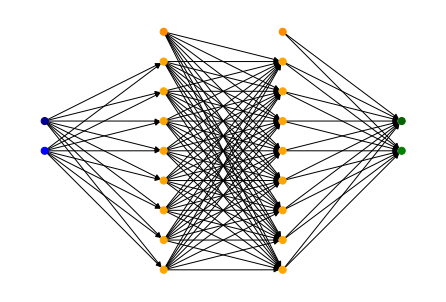
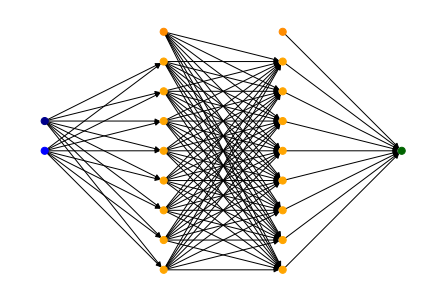
Fixed the draw_network bug

diff --git a/mlspear/NeuralNetwork.py b/mlspear/NeuralNetwork.py
@@ -159,7 +159,7 @@ class NeuralNetwork:
                     seen_non_batch_layer = True
                     num_node.append(layer.indims)
 
-                if layer_name in ['Softmax', 'Regression']:
+                if layer_name in ['Classification', 'Regression']:
                     num_node.append(layer.outdims)
                 else:
                     num_node.append(layer.outdims + 1)
